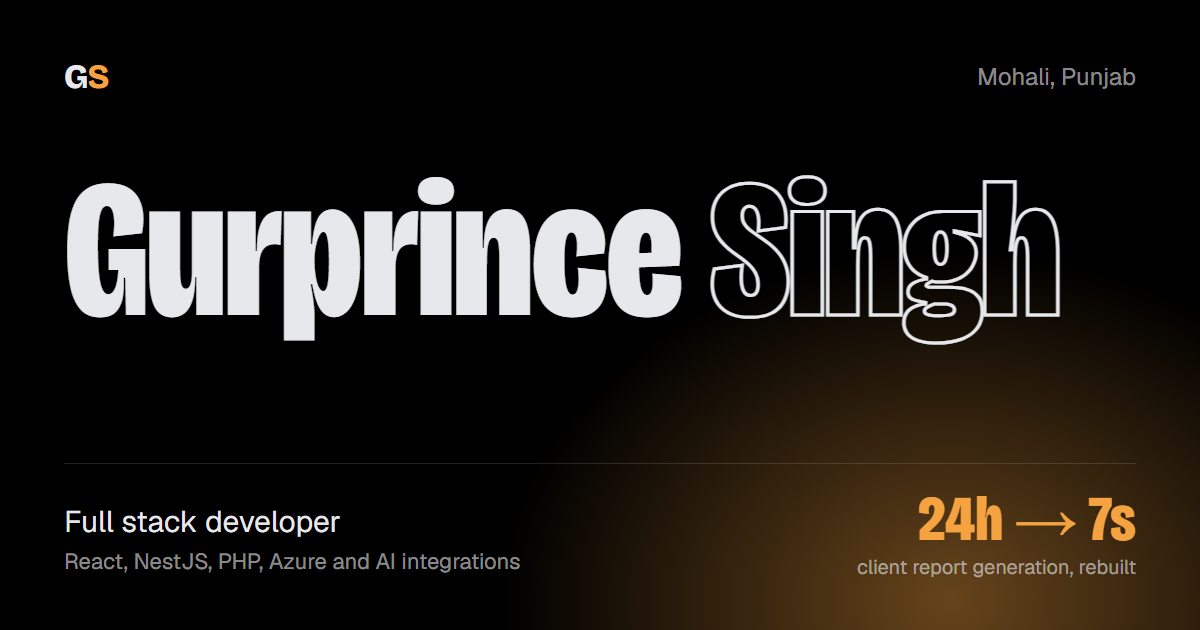
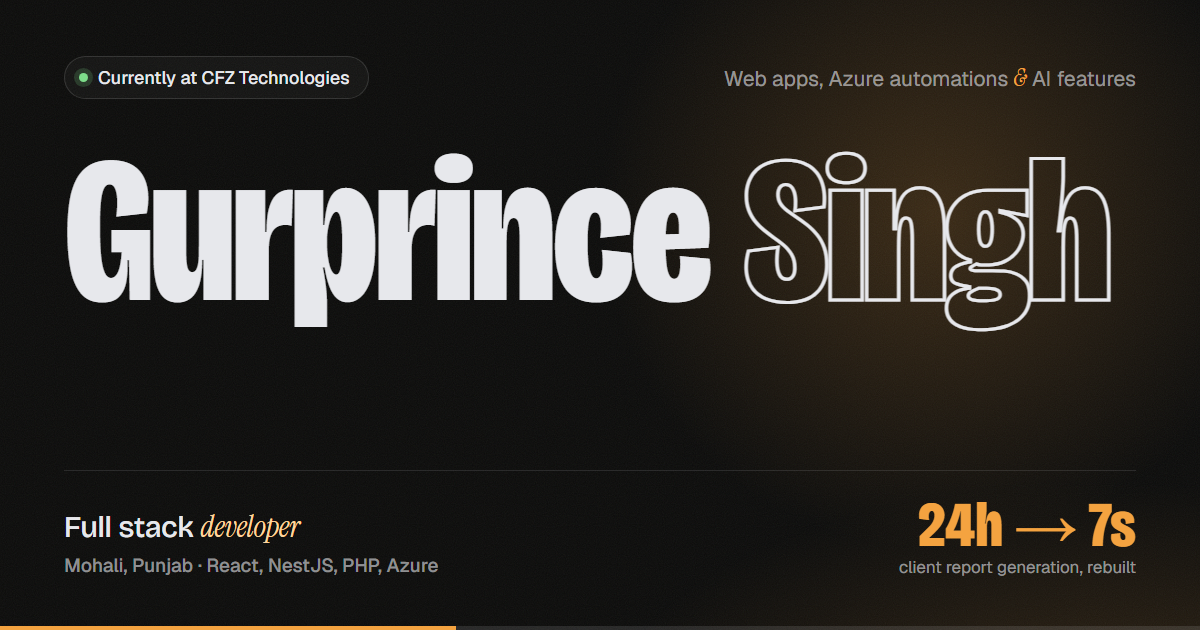
Refresh the link-preview image to match the new design
Bump the og:image URL with ?v=2 so LinkedIn, WhatsApp and X refetch it.

diff --git a/index.html b/index.html
@@ -16,12 +16,12 @@
     <link rel="canonical" href="https://gurprincesingh.vercel.app/" />
     <meta property="og:title" content="Gurprince Singh · Full Stack Developer" />
     <meta property="og:description" content="Full stack developer in Mohali, Punjab. React, NestJS, PHP, Azure and AI integrations. Rebuilt a client's report generation from 24 hours to 7 seconds." />
-    <meta property="og:image" content="https://gurprincesingh.vercel.app/og-image.png" />
+    <meta property="og:image" content="https://gurprincesingh.vercel.app/og-image.png?v=2" />
     <meta property="og:image:width" content="1200" />
     <meta property="og:image:height" content="630" />
     <meta property="og:image:alt" content="Gurprince Singh, full stack developer. Client report generation rebuilt from 24 hours to 7 seconds." />
     <meta name="twitter:card" content="summary_large_image" />
-    <meta name="twitter:image" content="https://gurprincesingh.vercel.app/og-image.png" />
+    <meta name="twitter:image" content="https://gurprincesingh.vercel.app/og-image.png?v=2" />
     <link rel="preconnect" href="https://fonts.googleapis.com" />
     <link rel="preconnect" href="https://fonts.gstatic.com" crossorigin />
     <link
